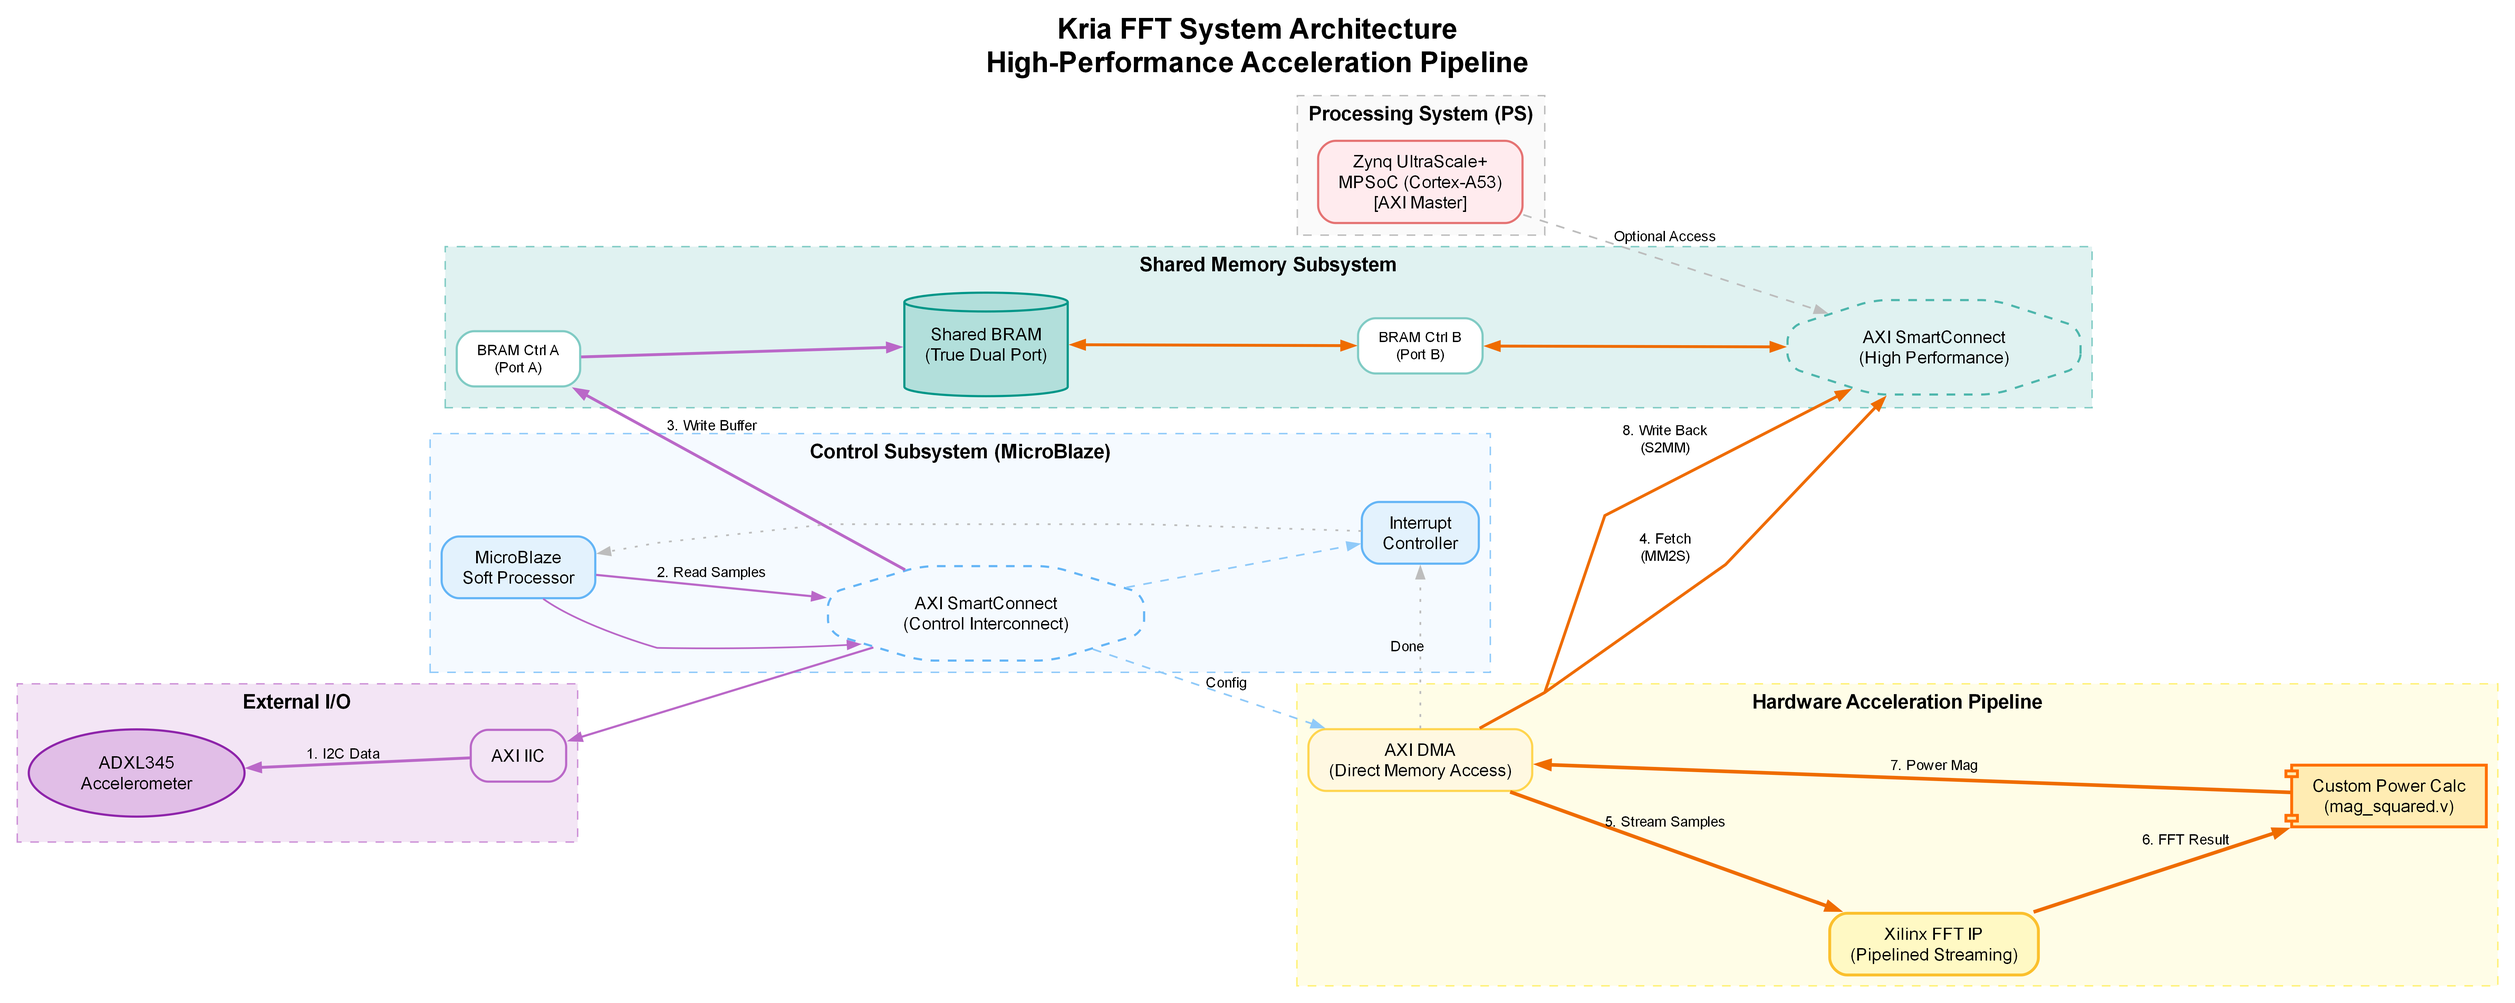
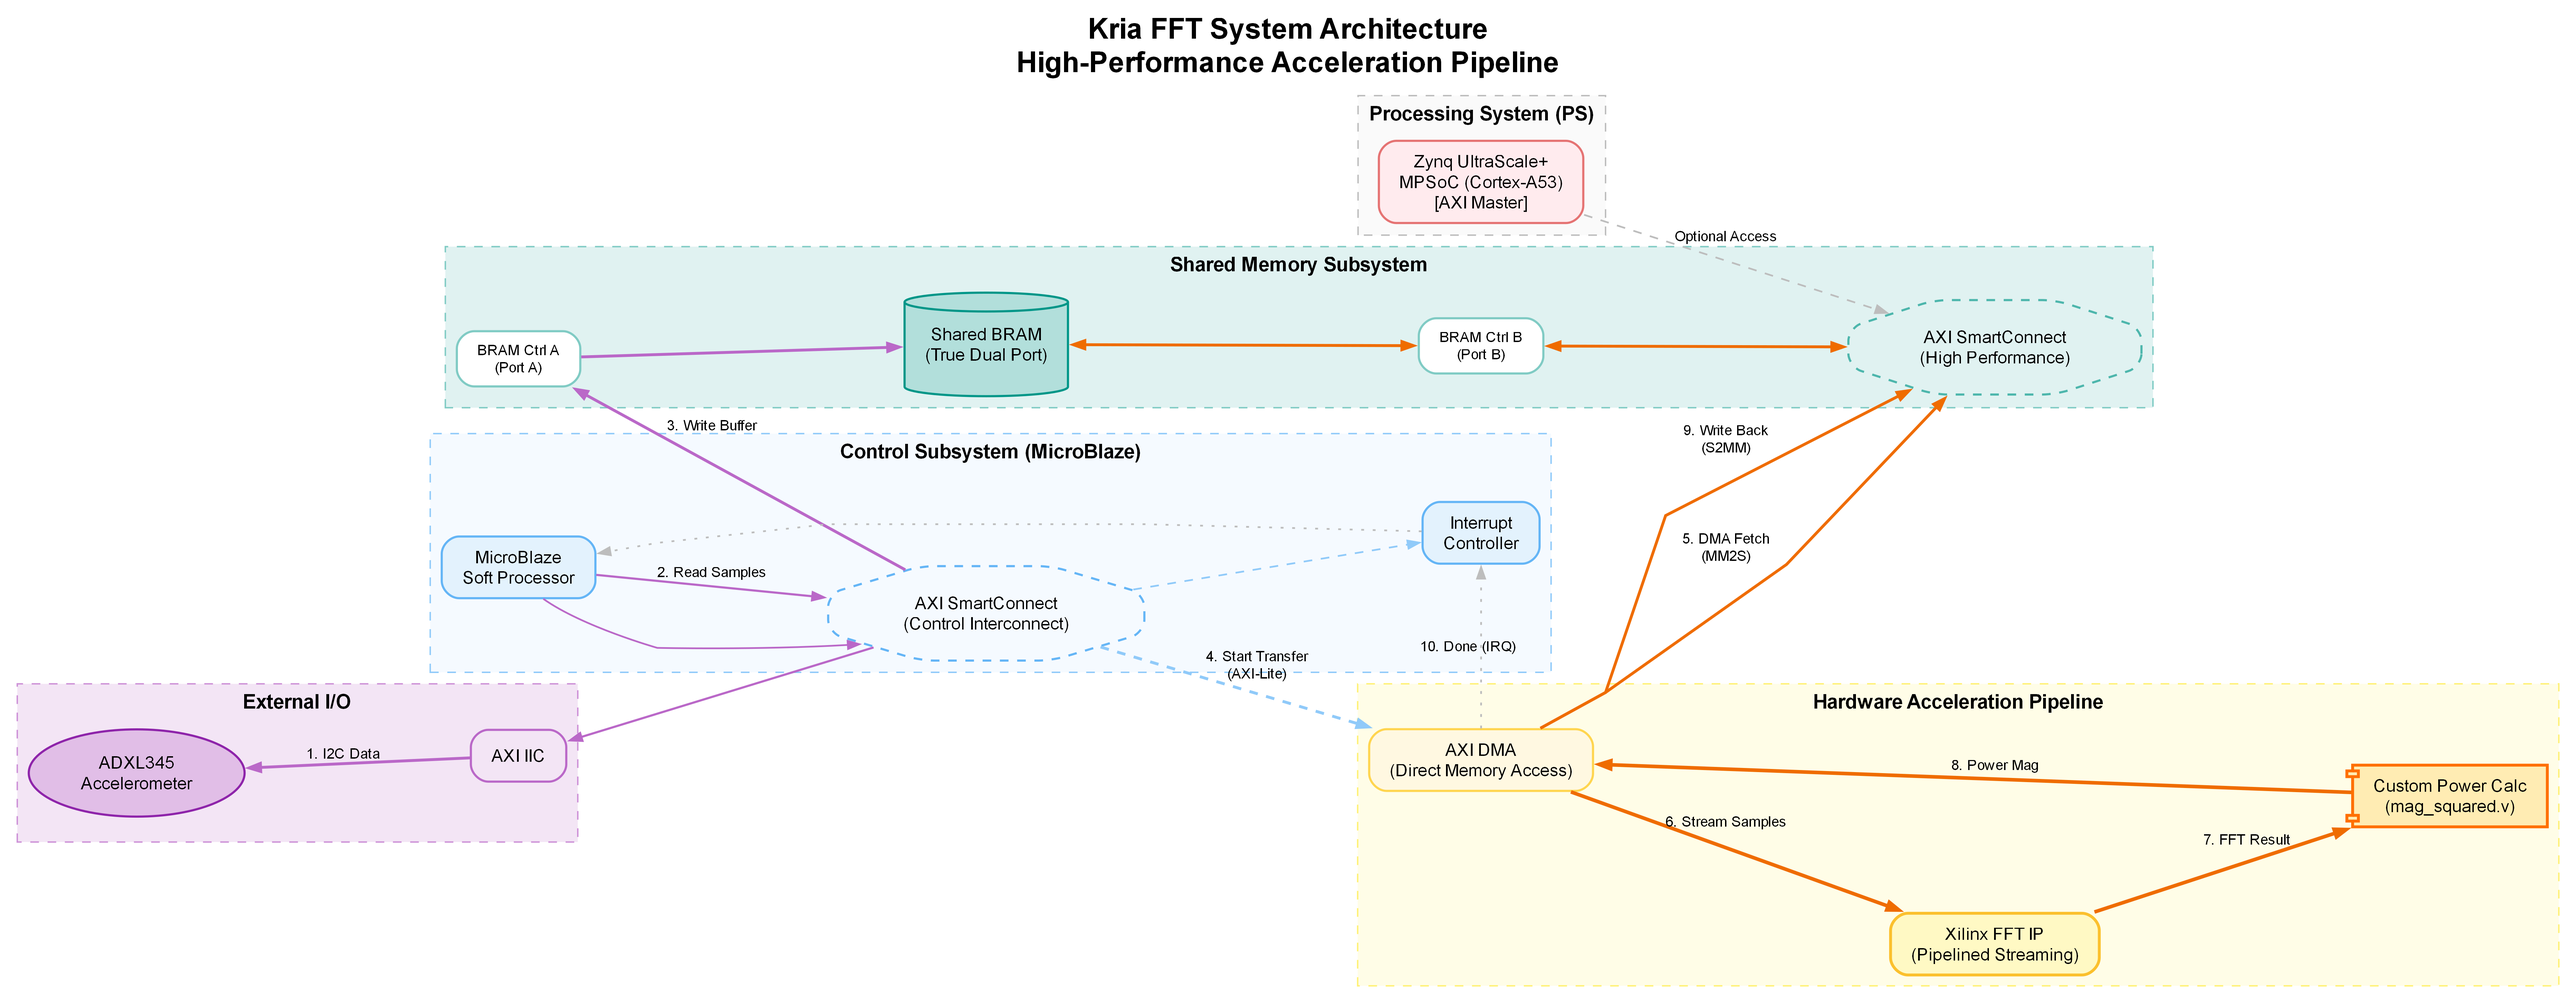
Update diagram: Add MicroBlaze Start Transfer step

diff --git a/Kria_FFT/generate_diagram.py b/Kria_FFT/generate_diagram.py
@@ -107,30 +107,33 @@ def create_kria_fft_diagram():
     dot.edge('SMC_MB', 'BRAM_Ctrl_A', label='3. Write Buffer', color=c_data_aq, penwidth='2.0')
     dot.edge('BRAM_Ctrl_A', 'BRAM', color=c_data_aq, penwidth='2.0')
 
-    # 2. PROCESSING PHASE (DMA)
+    # 2. CONTROL HAND-OFF
+    # MicroBlaze tells DMA to start
+    # We make this part of the numbered sequence now
+    dot.edge('SMC_MB', 'DMA', label='4. Start Transfer\n(AXI-Lite)', color=c_control, penwidth='2.0', style='dashed')
+
+    # 3. PROCESSING PHASE (DMA)
     # BRAM -> DMA -> FFT -> Mag -> DMA -> BRAM
     dot.edge('BRAM', 'BRAM_Ctrl_B', color=c_data_proc, penwidth='2.0', dir='both')
     dot.edge('BRAM_Ctrl_B', 'SMC_PS', color=c_data_proc, penwidth='2.0', dir='both')
     
     # Read Path
-    dot.edge('SMC_PS', 'DMA', label='4. Fetch\n(MM2S)', color=c_data_proc, penwidth='2.0', dir='back')
-    dot.edge('DMA', 'FFT', label='5. Stream Samples', color=c_data_proc, penwidth='2.5')
+    dot.edge('SMC_PS', 'DMA', label='5. DMA Fetch\n(MM2S)', color=c_data_proc, penwidth='2.0', dir='back')
+    dot.edge('DMA', 'FFT', label='6. Stream Samples', color=c_data_proc, penwidth='2.5')
     
     # Pipeline
-    dot.edge('FFT', 'PowerCalc', label='6. FFT Result', color=c_data_proc, penwidth='2.5')
-    dot.edge('PowerCalc', 'DMA', label='7. Power Mag', color=c_data_proc, penwidth='2.5')
+    dot.edge('FFT', 'PowerCalc', label='7. FFT Result', color=c_data_proc, penwidth='2.5')
+    dot.edge('PowerCalc', 'DMA', label='8. Power Mag', color=c_data_proc, penwidth='2.5')
     
     # Write Path
-    dot.edge('DMA', 'SMC_PS', label='8. Write Back\n(S2MM)', color=c_data_proc, penwidth='2.0')
+    dot.edge('DMA', 'SMC_PS', label='9. Write Back\n(S2MM)', color=c_data_proc, penwidth='2.0')
 
-    # 3. CONTROL / CONFIG (Background)
-    # MicroBlaze configuration of IP blocks
-    dot.edge('MicroBlaze', 'SMC_MB', style='invis') # Existing structural link
-    dot.edge('SMC_MB', 'DMA', label='Config', style='dashed', color=c_control)
+    # 4. BACKGROUND / IRQ
+    dot.edge('MicroBlaze', 'SMC_MB', style='invis') 
     dot.edge('SMC_MB', 'INTC', style='dashed', color=c_control)
     
     # Interrupts
-    dot.edge('DMA', 'INTC', label='Done', style='dotted', color='#bdbdbd')
+    dot.edge('DMA', 'INTC', label='10. Done (IRQ)', style='dotted', color='#bdbdbd')
     dot.edge('INTC', 'MicroBlaze', style='dotted', color='#bdbdbd')
 
     # Zynq Access (Optional debug path)
